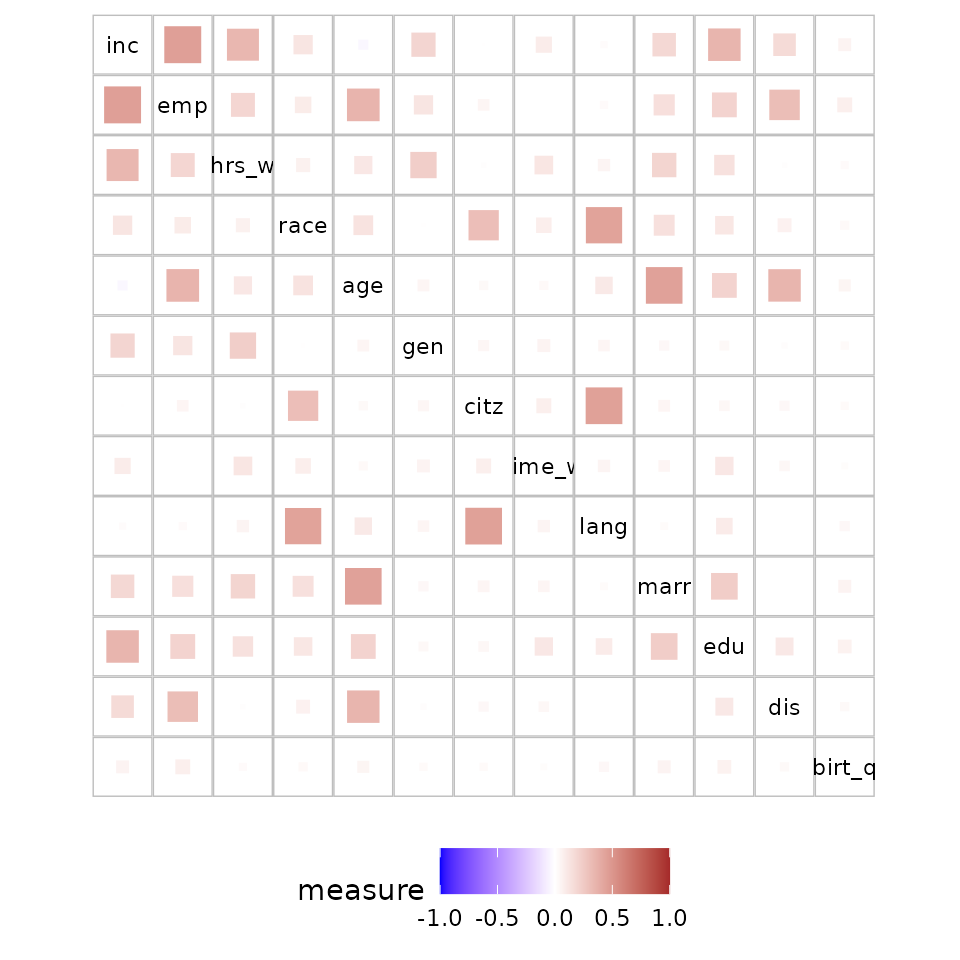
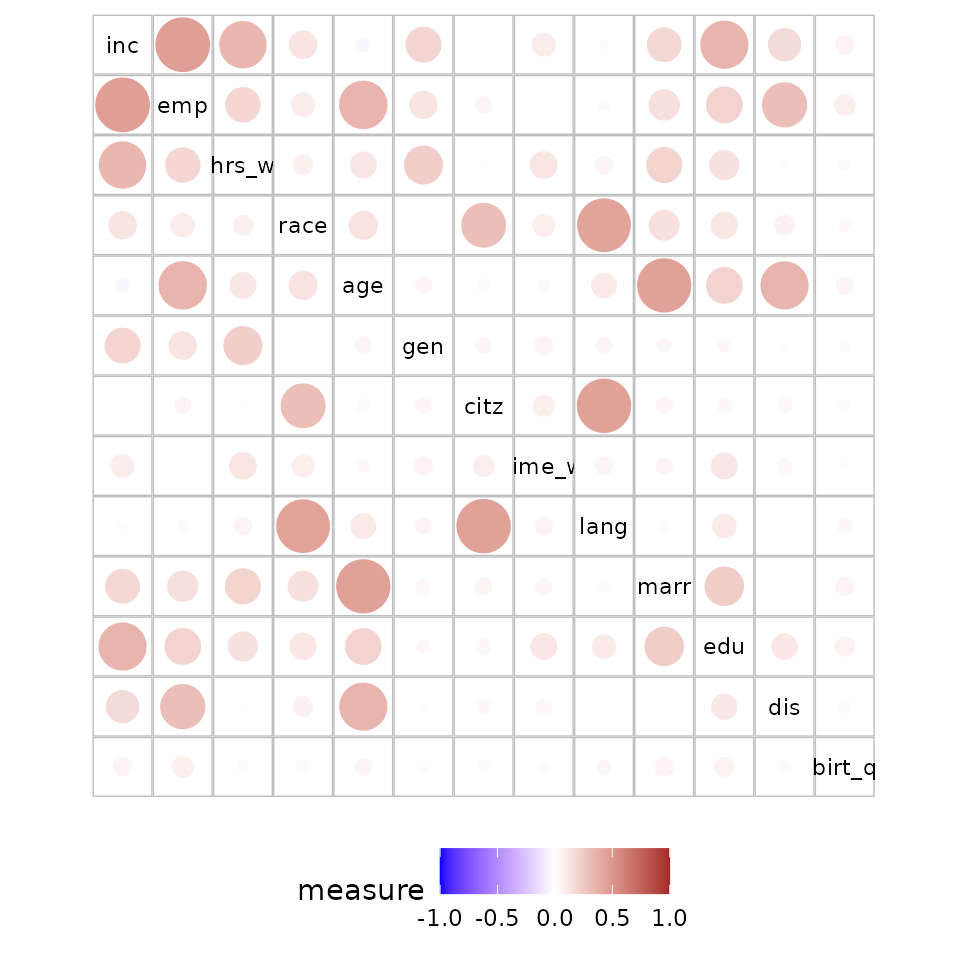
Deploying to gh-pages from @ chinwan16/corVis@b231174065b131b6bbd58cbfe5ce52e9dbd88877 🚀

diff --git a/articles/integrating_corVis.html b/articles/integrating_corVis.html
@@ -450,13 +450,13 @@ a network display as shown in Figure 2.</p>
 <span><span class="co">## Number of couples: 28 </span></span>
 <span><span class="co">## Number of observations: 344 </span></span>
 <span><span class="co">## Coef.: pearson, spearman, kendall, mic, MaxNMI</span></span>
-<span><span class="co">## Start time: 2023-03-20 15:13:18 </span></span>
-<span><span class="co">## Correlation coef. computation finished: 2023-03-20 15:13:21</span></span></code></pre>
+<span><span class="co">## Start time: 2023-03-20 15:26:43 </span></span>
+<span><span class="co">## Correlation coef. computation finished: 2023-03-20 15:26:46</span></span></code></pre>
 <div class="sourceCode" id="cb4"><pre class="downlit sourceCode r">
 <code class="sourceCode R"><span><span class="fu"><a href="https://rdrr.io/pkg/linkspotter/man/linkspotterGraph.html" class="external-link">linkspotterGraph</a></span><span class="op">(</span>corDF <span class="op">=</span> <span class="va">corCouples</span>, corMethod <span class="op">=</span> <span class="st">"pearson"</span>, smoothEdges <span class="op">=</span> <span class="cn">FALSE</span>, </span>
 <span>  dynamicNodes <span class="op">=</span> <span class="cn">FALSE</span><span class="op">)</span></span></code></pre></div>
-<div id="htmlwidget-dca43325b83591e750b5" style="width:100%;height:100%;" class="visNetwork html-widget "></div>
-<script type="application/json" data-for="htmlwidget-dca43325b83591e750b5">{"x":{"nodes":{"id":["species","island","bill_length_mm","bill_depth_mm","flipper_length_mm","body_mass_g","sex","year"],"label":["species","island","bill_length_mm","bill_depth_mm","flipper_length_mm","body_mass_g","sex","year"],"title":["species","island","bill_length_mm","bill_depth_mm","flipper_length_mm","body_mass_g","sex","year"]},"edges":{"id":["15","16","19","20","23"],"from":["bill_length_mm","bill_length_mm","bill_depth_mm","bill_depth_mm","flipper_length_mm"],"to":["flipper_length_mm","body_mass_g","flipper_length_mm","body_mass_g","body_mass_g"],"typeOfCouple":["num.num","num.num","num.num","num.num","num.num"],"pearson":[0.656181340746428,0.59510982443763,-0.583851216465413,-0.471915621186067,0.871201767306011],"spearman":[0.672771941625554,0.583800319445548,-0.523267471161074,-0.432372221413044,0.8399741230313],"kendall":[0.483345441762745,0.433359178368938,-0.281894499346629,-0.195069846128774,0.660467495345973],"mic":[0.483850848406702,0.392274673666884,0.659988830906406,0.518085006394912,0.694241372377172],"MaxNMI":[0.277196195251305,0.242222561231358,0.363633947863205,0.352718792752059,0.416165430100181],"correlationType":["positive","positive","negative","negative","positive"],"value":[0.656181340746428,0.59510982443763,0.583851216465413,0.471915621186067,0.871201767306011],"title":["pearson: 0.66","pearson: 0.60","pearson: -0.58","pearson: -0.47","pearson: 0.87"]},"nodesToDataframe":true,"edgesToDataframe":true,"options":{"width":"100%","height":"100%","nodes":{"shape":"dot"},"manipulation":{"enabled":false},"edges":{"smooth":false}},"groups":null,"width":"100%","height":"100%","idselection":{"enabled":false},"byselection":{"enabled":false},"main":null,"submain":null,"footer":null,"background":"rgba(0, 0, 0, 0)","events":{"stabilizationIterationsDone":"function () {this.setOptions( { physics: false } );}"}},"evals":["events.stabilizationIterationsDone"],"jsHooks":[]}</script><div class="sourceCode" id="cb5"><pre class="downlit sourceCode r">
+<div id="htmlwidget-6874ae2e3cc4c7c1ddf4" style="width:100%;height:100%;" class="visNetwork html-widget "></div>
+<script type="application/json" data-for="htmlwidget-6874ae2e3cc4c7c1ddf4">{"x":{"nodes":{"id":["species","island","bill_length_mm","bill_depth_mm","flipper_length_mm","body_mass_g","sex","year"],"label":["species","island","bill_length_mm","bill_depth_mm","flipper_length_mm","body_mass_g","sex","year"],"title":["species","island","bill_length_mm","bill_depth_mm","flipper_length_mm","body_mass_g","sex","year"]},"edges":{"id":["15","16","19","20","23"],"from":["bill_length_mm","bill_length_mm","bill_depth_mm","bill_depth_mm","flipper_length_mm"],"to":["flipper_length_mm","body_mass_g","flipper_length_mm","body_mass_g","body_mass_g"],"typeOfCouple":["num.num","num.num","num.num","num.num","num.num"],"pearson":[0.656181340746428,0.59510982443763,-0.583851216465413,-0.471915621186067,0.871201767306011],"spearman":[0.672771941625554,0.583800319445548,-0.523267471161074,-0.432372221413044,0.8399741230313],"kendall":[0.483345441762745,0.433359178368938,-0.281894499346629,-0.195069846128774,0.660467495345973],"mic":[0.483850848406702,0.392274673666884,0.659988830906406,0.518085006394912,0.694241372377172],"MaxNMI":[0.277196195251305,0.242222561231358,0.363633947863205,0.352718792752059,0.416165430100181],"correlationType":["positive","positive","negative","negative","positive"],"value":[0.656181340746428,0.59510982443763,0.583851216465413,0.471915621186067,0.871201767306011],"title":["pearson: 0.66","pearson: 0.60","pearson: -0.58","pearson: -0.47","pearson: 0.87"]},"nodesToDataframe":true,"edgesToDataframe":true,"options":{"width":"100%","height":"100%","nodes":{"shape":"dot"},"manipulation":{"enabled":false},"edges":{"smooth":false}},"groups":null,"width":"100%","height":"100%","idselection":{"enabled":false},"byselection":{"enabled":false},"main":null,"submain":null,"footer":null,"background":"rgba(0, 0, 0, 0)","events":{"stabilizationIterationsDone":"function () {this.setOptions( { physics: false } );}"}},"evals":["events.stabilizationIterationsDone"],"jsHooks":[]}</script><div class="sourceCode" id="cb5"><pre class="downlit sourceCode r">
 <code class="sourceCode R"><span><span class="va">nw_corVis</span> <span class="op">&lt;-</span> <span class="kw">function</span><span class="op">(</span><span class="va">assoc</span><span class="op">)</span><span class="op">{</span></span>
 <span>  <span class="va">assoc</span> <span class="op">&lt;-</span> <span class="fu"><a href="../reference/sym_assoc.html">sym_assoc</a></span><span class="op">(</span><span class="va">assoc</span><span class="op">)</span></span>
 <span>  <span class="va">graph</span> <span class="op">&lt;-</span> <span class="fu"><a href="https://rdrr.io/pkg/igraph/man/graph_from_data_frame.html" class="external-link">graph_from_data_frame</a></span><span class="op">(</span><span class="va">assoc</span><span class="op">)</span></span>

diff --git a/articles/seriation.html b/articles/seriation.html
@@ -243,15 +243,17 @@ to the dissimilarity measure), which produces an order such that the LPL
 cost function is minimised.</p>
 <p>Figure 3 compares the default ordering of the variables in the
 dataset with ordering obtained by seriation using LPL cost function. The
-plot on the right shows highly associated variables at the top left
-corner or along the diagonal of the display, making it easier for an
-analyst to identify associated pairs instantly. For instance, the
-variable pairs (<code>edu</code>,<code>inc</code>) and
-(<code>emp</code>, <code>dis</code>) are highly associated and are easy
-to discover in the plot on right compared to the plot on the left.</p>
+plot with default ordering uses circular glyph and the seriated plot
+uses square glyph to show association measure value. The plot on the
+right shows highly associated variables at the top left corner or along
+the diagonal of the display, making it easier for an analyst to identify
+associated pairs instantly. For instance, the variable pairs
+(<code>edu</code>,<code>inc</code>) and (<code>emp</code>,
+<code>dis</code>) are highly associated and are easy to discover in the
+plot on right compared to the plot on the left.</p>
 <div class="sourceCode" id="cb9"><pre class="downlit sourceCode r">
 <code class="sourceCode R"><span><span class="va">assoc</span> <span class="op">&lt;-</span> <span class="fu"><a href="../reference/calc_assoc.html">calc_assoc</a></span><span class="op">(</span><span class="va">df</span><span class="op">)</span></span>
-<span><span class="fu"><a href="../reference/plot_assoc_matrix.html">plot_assoc_matrix</a></span><span class="op">(</span><span class="va">assoc</span>, var_order <span class="op">=</span> <span class="fu"><a href="https://rdrr.io/r/base/names.html" class="external-link">names</a></span><span class="op">(</span><span class="va">df</span><span class="op">)</span><span class="op">)</span></span>
+<span><span class="fu"><a href="../reference/plot_assoc_matrix.html">plot_assoc_matrix</a></span><span class="op">(</span><span class="va">assoc</span>, var_order <span class="op">=</span> <span class="fu"><a href="https://rdrr.io/r/base/names.html" class="external-link">names</a></span><span class="op">(</span><span class="va">df</span><span class="op">)</span>,glyph <span class="op">=</span> <span class="st">"circle"</span><span class="op">)</span></span>
 <span><span class="fu"><a href="../reference/plot_assoc_matrix.html">plot_assoc_matrix</a></span><span class="op">(</span><span class="va">assoc</span><span class="op">)</span></span></code></pre></div>
 <div class="figure">
 <img src="seriation_files/figure-html/assoc_display-1.png" alt="Figure 3: Association measure display for `acs12` data. Left: variables in default order of the data; right: variables ordered by LPL cost function" width="45%"><img src="seriation_files/figure-html/assoc_display-2.png" alt="Figure 3: Association measure display for `acs12` data. Left: variables in default order of the data; right: variables ordered by LPL cost function" width="45%"><p class="caption">
